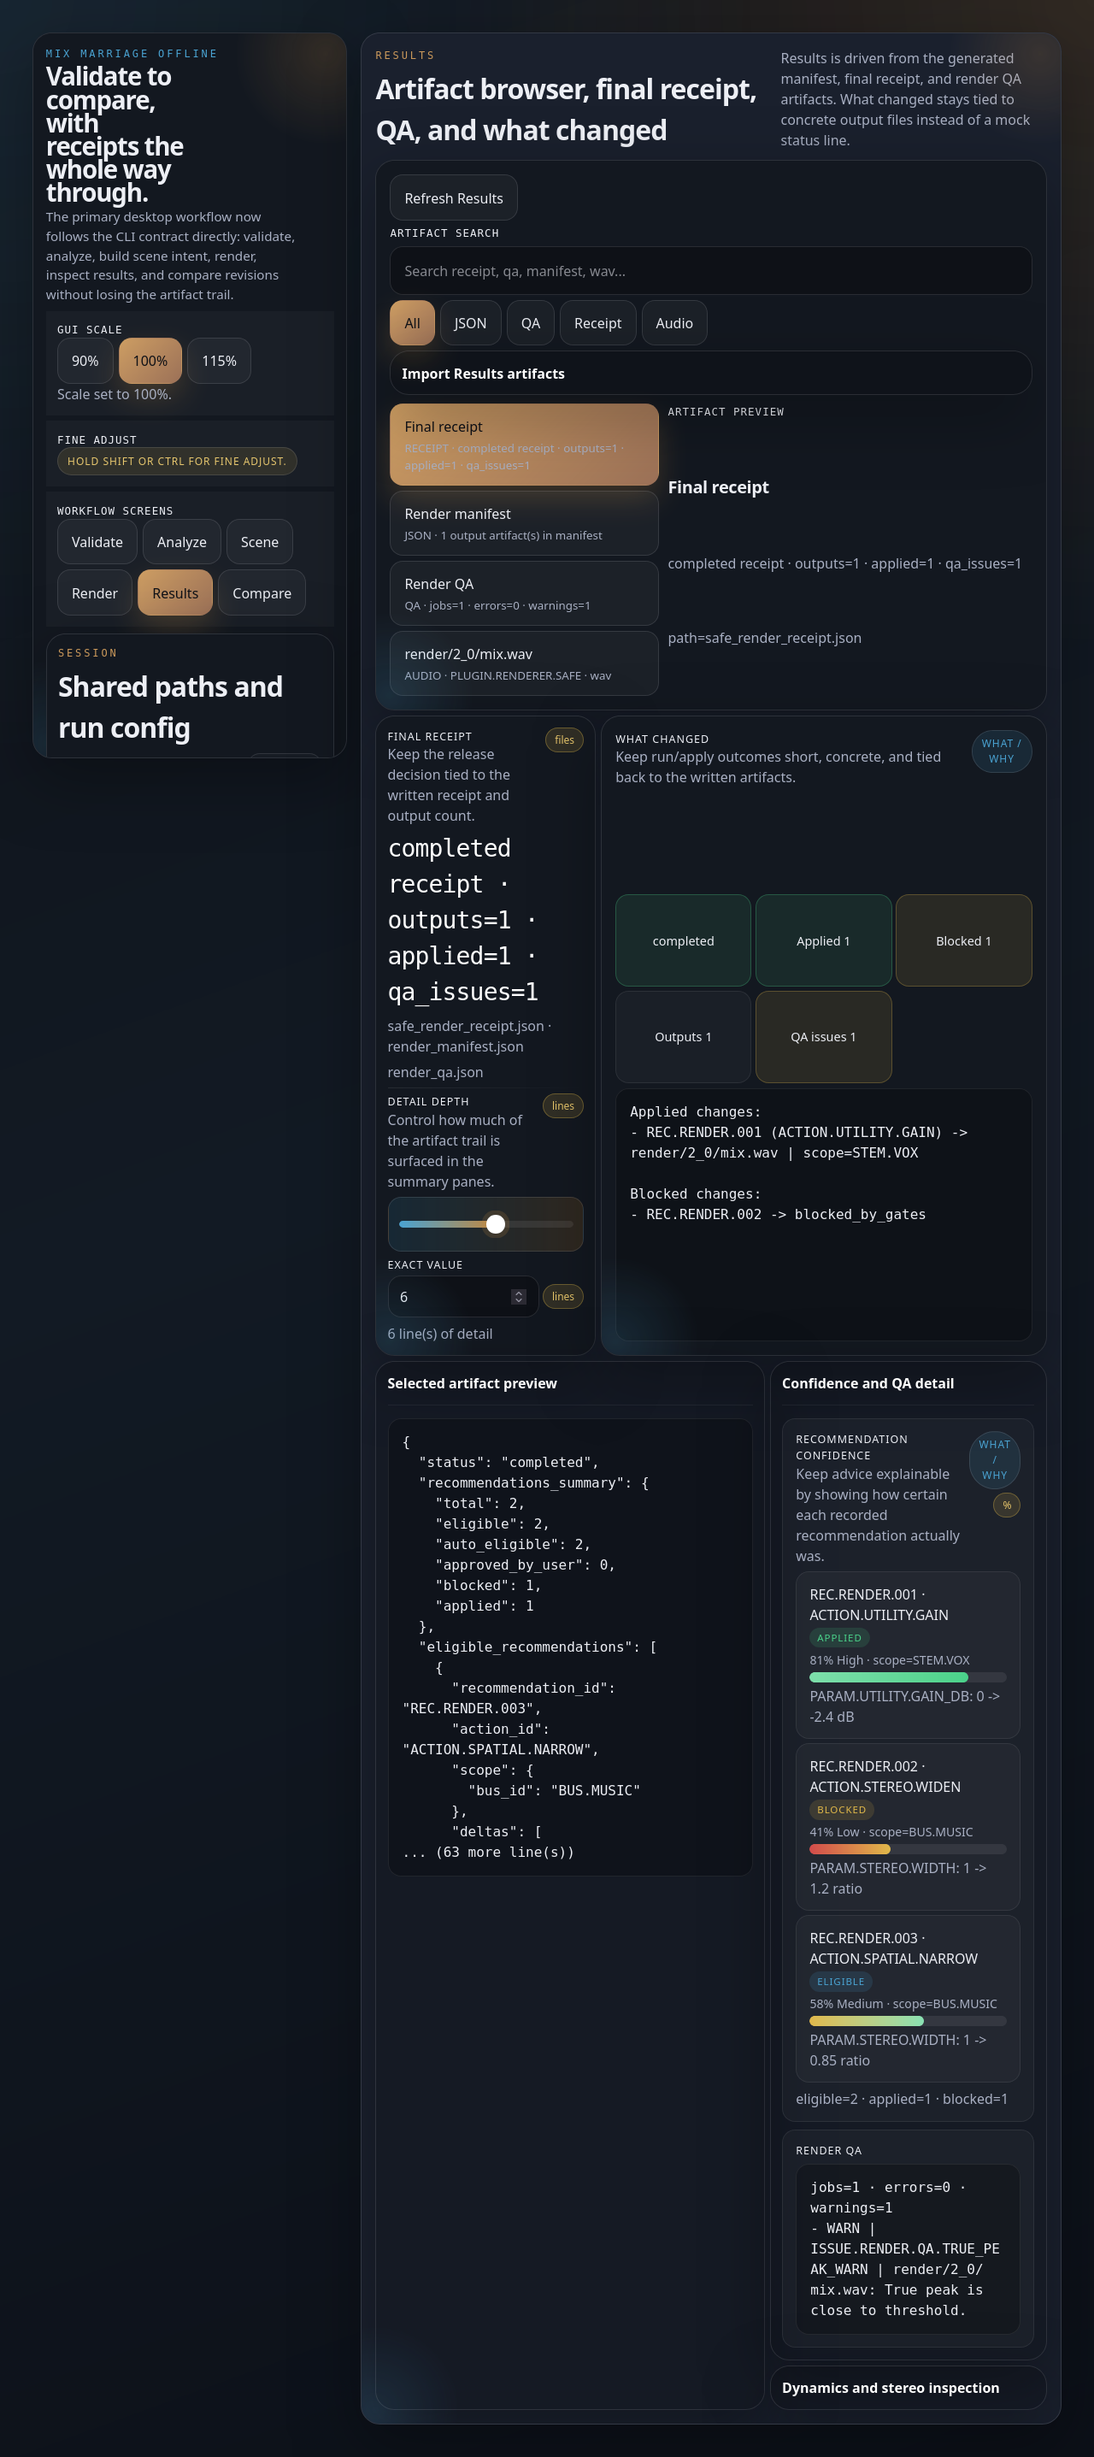
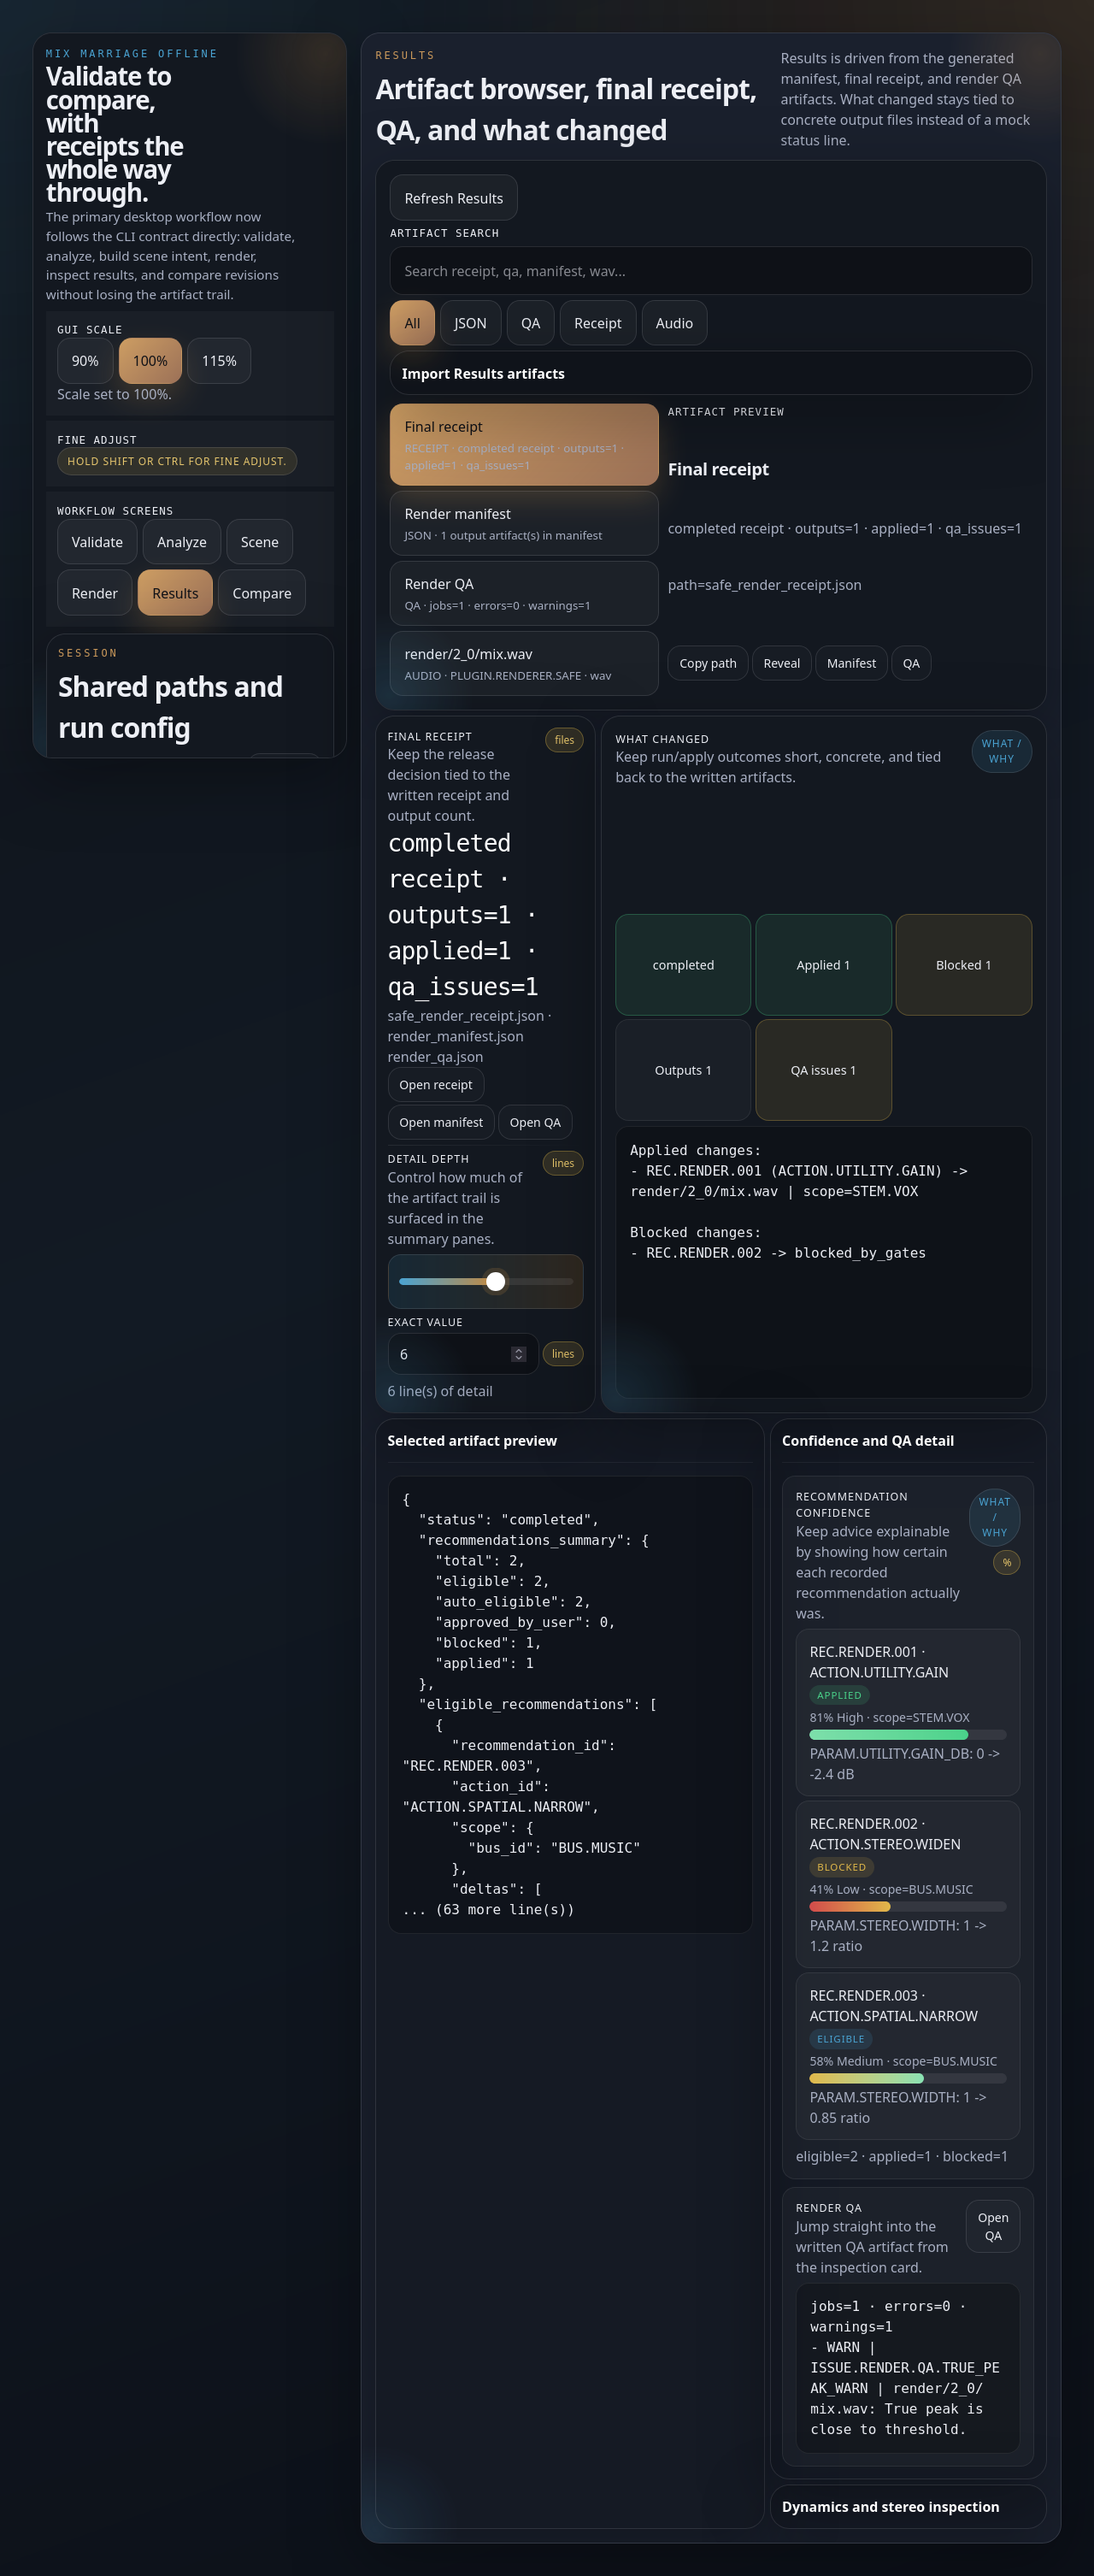
Fix Tauri desktop CI screenshot and layout regressions

diff --git a/gui/desktop-tauri/tests/design-system.spec.ts b/gui/desktop-tauri/tests/design-system.spec.ts
@@ -123,6 +123,11 @@ async function visibleWidgetBoxes(page: Parameters<typeof test>[0]["page"]): Pro
       if (!(node instanceof HTMLElement)) {
         return [];
       }
+      // Only compare top-level layout widgets. Nested controls intentionally sit
+      // inside their parent card and should not be treated as peer widgets.
+      if (node.parentElement?.closest("[data-widget-id]") !== null) {
+        return [];
+      }
       const style = window.getComputedStyle(node);
       if (style.display === "none" || style.visibility === "hidden" || node.hidden) {
         return [];

diff --git a/PROJECT_WHEN_COMPLETE.md b/PROJECT_WHEN_COMPLETE.md
@@ -453,6 +453,10 @@ Note: schema contracts use `schemas/*.schema.json` naming (not
 - [x] An isolated Tauri desktop scaffold now exists under `gui/desktop-tauri`,
       using a Vite frontend with cross-platform CI release-binary builds on
       Windows, macOS, and Linux.
+- [x] Canonical Tauri manual screenshots are regenerated in CI through
+      `tools/capture_tauri_screenshots.py` and diffed against
+      `docs/manual/assets/screenshots`, so screenshot regressions track the
+      shipped desktop workflow instead of the legacy Tk fallback GUI.
 - [x] The Tauri desktop app now stages a frozen `mmo` CLI as a sidecar, ships
       bundled MMO packaged data through that sidecar, and includes a Doctor
       screen that verifies `mmo --version`, bundled plugin validation, and
@@ -512,8 +516,10 @@ AI-readable layout export + validation (prevents overlaps/off-screen UI):
 - [x] A global GUI scale control exists (or responsive scaling equivalent) for
       laptop vs 4K displays. Done: Firefox design-system regression coverage now
       keeps required Tauri widgets inside viewport bounds at the mobile
-      breakpoint, and exact-entry -> drag flows retain visible fine-adjust
-      feedback without scroll-induced coordinate drift.
+      breakpoint, exact-entry -> drag flows retain visible fine-adjust
+      feedback without scroll-induced coordinate drift, and card-overlap
+      assertions now scope to top-level Tauri widgets so nested sub-controls do
+      not create false layout collisions.
 
 ## 4.9 DSP engine and plugin execution (Definition of Done)
 

diff --git a/CHANGELOG.md b/CHANGELOG.md
@@ -172,6 +172,18 @@ The format is based on [Keep a Changelog](https://keepachangelog.com/en/1.1.0/).
     / `keyup` / blur-driven drag lifecycles, and composite numeric controls keep
     `Tab` focus local without scroll jumps so Firefox drag tests stay
     deterministic.
+  - Layout overlap coverage now compares only top-level Tauri cards, so nested
+    readouts, sliders, and QA panes no longer trip false Firefox collisions
+    while the required card-level viewport checks stay intact.
+
+- Tauri manual screenshot CI alignment:
+  - The screenshot-diff workflow now regenerates the documented Tauri
+    canonical-state PNG set with `tools/capture_tauri_screenshots.py` plus the
+    matching Playwright/Node setup, instead of calling the legacy Tk capture
+    wrapper that only produced ignored non-canonical images.
+  - Refreshed the committed `tauri_results_loaded.png` baseline to match the
+    current Results-screen canonical loaded state after the newer inspection
+    layout changes.
 
 - Tauri GUI explainability + dynamics/spatial inspection parity:
   - The desktop Results screen now renders deterministic, artifact-backed gain

diff --git a/docs/manual/assets/screenshots/README.md b/docs/manual/assets/screenshots/README.md
@@ -18,7 +18,9 @@ screenshots.
   give it a canonical state name.
 - Refresh screenshots only when a canonical state meaning changes: a new
   default layout, a different required panel, changed workflow emphasis, or a
-  materially different orientation surface for readers.
+  materially different orientation surface for readers. This also includes
+  intentional full-page layout changes that move those top-level orientation
+  surfaces enough to invalidate the committed baseline composition.
 - Do not commit native file pickers, OS dialogs, or other platform-specific
   transient states as baselines.
 - After intentional GUI changes, update both the screenshot baselines and the

diff --git a/docs/manual/10-gui-walkthrough.md b/docs/manual/10-gui-walkthrough.md
@@ -176,6 +176,8 @@ preview, final receipt, and what changed.
 
 Use this state when you want a quick answer to: what was written, what changed,
 and which artifact should I inspect next?
+Small vertical shifts lower on the page are acceptable as summary cards wrap,
+but the canonical loaded state still centers those same top-level surfaces.
 
 ![Results screen, loaded default state](assets/screenshots/tauri_results_loaded.png)
 
